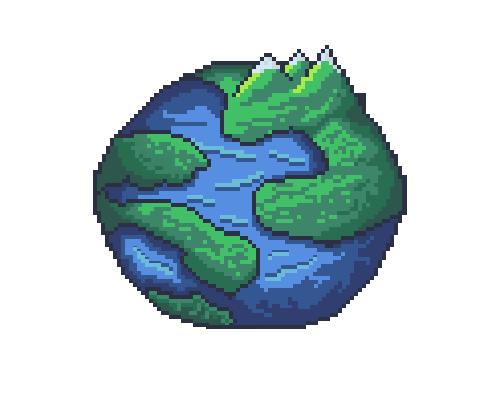
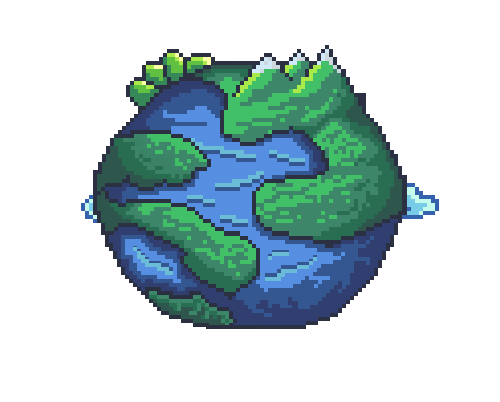
night

Changed region(s): [[0.24, 0.1194, 0.45, 0.2687], [0.81, 0.4478, 0.9, 0.5672], [0.15, 0.4776, 0.21, 0.5672]]

diff --git a/style.css b/style.css
@@ -7,7 +7,8 @@ html, body, #site-wrapper {
     to {opacity: 1;}
 }
 
-#site-wrapper {
+#site-wrapper { 
+    animation-fill-mode: forwards;
     animation-name: mist;
     animation-duration: 7s;
     animation-iteration-count: 1;
@@ -73,7 +74,7 @@ body::after {
     content: url("4-default-frames/moving_0.png");
     width: 60vh;
     animation-name: earth, fadein;
-    animation-duration: 2s, 3s;
+    animation-duration: 1.7s, 3s;
     animation-iteration-count: infinite, 1;
     animation-timing-function: linear, linear;
 }
@@ -254,10 +255,10 @@ body::after {
     content: url("assets/atmsph.png");
     position: absolute;
     opacity: 0.4;
-    top: calc(((100vh - ((89 / 500) * 60vh)) / 2) - ((99.9 / 500) * 60vh));
+    top: calc(((100vh - ((101 / 500) * 60vh)) / 2) - ((105.5 / 500) * 60vh));
     left: calc(((100vw - ((126 / 500) * 60vh)) / 2) - ((81 / 500) * 60vh));
     width: calc((126 / 500) * 60vh);
-    height: calc((89 / 500) * 60vh);
+    height: calc((101 / 500) * 60vh);
     z-index: 41;
     animation: atmsphFade 30s ease-out;
     animation-fill-mode: forwards;
@@ -296,4 +297,104 @@ body::after {
         left: 100%;
     }
 }
+
+@keyframes cloud_hover {
+    0% {transform: translateY(0);}
+  
+    50% {transform: translateY(2px);}
+}
+
+@keyframes logo_right_cloud {
+    from {opacity: 0; left: calc((((100vw - ((212 / 500) * 60vh)) / 2) + ((128 / 500) * 60vh)) - 40vh);}
+    to {opacity: 1; left: calc(((100vw - ((212 / 500) * 60vh)) / 2) + ((128 / 500) * 60vh));}
+}
+
+#right-cloud {
+    position: absolute;
+    width: calc((212 / 500) * 60vh);
+    height: calc((74 / 500) * 60vh);
+    top: calc(((100vh - ((74 / 500) * 60vh)) / 2) - ((67 / 500) * 60vh));
+    opacity: 0;
+    z-index: 51;
+    background-image: url("assets/right-cloud.png");
+    background-repeat: no-repeat;
+    background-size: cover;
+    animation-name: logo_right_cloud, cloud_hover;
+    animation-duration: 14s, 2s;
+    animation-timing-function: linear, cubic-bezier(.36, .07, .19, .97);
+    animation-delay: 5s, 6s;
+    animation-iteration-count: 1, infinite;
+    animation-fill-mode: forwards;
+}
+
+@keyframes logo_left_cloud {
+    from {opacity: 0; left: calc((((100vw - ((203 / 500) * 60vh)) / 2) - ((148.5 / 500) * 60vh)) + 40vh);}
+    to {opacity: 1; left: calc(((100vw - ((203 / 500) * 60vh)) / 2) - ((148.5 / 500) * 60vh));}
+}
+
+#left-cloud {
+    position: absolute;
+    width: calc((203 / 500) * 60vh);
+    height: calc((77 / 500) * 60vh);
+    top: calc(((100vh - ((77 / 500) * 60vh)) / 2) - ((40.5 / 500) * 60vh));
+    opacity: 0;
+    z-index: 51;
+    background-image: url("assets/left-cloud.png");
+    background-repeat: no-repeat;
+    background-size: cover;
+    animation-name: logo_left_cloud, cloud_hover;
+    animation-duration: 14s, 2s;
+    animation-timing-function: linear, cubic-bezier(.36, .07, .19, .97);
+    animation-delay: 5s, 5s;
+    animation-iteration-count: 1, infinite;
+    animation-fill-mode: forwards;
+}
+
+#switch, #circle {
+    height: 20px;
+    transition: all 0.4s cubic-bezier(0.54, 1.6, 0.5, 1);
+    opacity: 0;
+    animation: fadein 4s linear 10s;
+    animation-fill-mode: forwards;
+}
+
+#switch {
+    width: 40px;
+    margin: 0 auto;
+    border: 2px solid #DA8508;
+    border-radius: 27px;
+    background: #DA8508;
+    position: absolute;
+    top: calc(((100vh + (402 / 500) * 60vh) / 2) + 15px);
+    left: calc(50vw - 20px);
+}
+
+#circle {
+    margin-top: 5%;
+    margin-left: 5%;
+    width: 40%;
+    height: 80%;
+    border-radius: 50%;
+    box-shadow: 0 4px 4px rgba(26,53,71,0.25), 0 0 0 1px rgba(26,53,71,0.07);
+    background: #e9e5d5;
+}
+
+.switched {
+    border-color: #1C3958 !important;
+    background: #1C3958 !important;
+}
+
+.switched #circle {
+    margin-left: 55%;
+    background: #e9e5d5;
+}
+
+.night {
+    filter: grayscale(50%) brightness(50%);
+}
+
+/*#site-wrapper:has([id]) {
+    transition: filter 1s ease-in-out;
+}
+
 

diff --git a/index.html b/index.html
@@ -7,15 +7,15 @@
     <title>Everland</title>
     <link href="style.css" rel="stylesheet" type="text/css"/>
     <link rel="stylesheet" type="text/css" media="screen and (max-width: 600px)" href="mobile123.css"/>
-</head>
-
+    <script
+  src="https://code.jquery.com/jquery-3.4.1.js"
+  integrity="sha256-WpOohJOqMqqyKL9FccASB9O0KwACQJpFTUBLTYOVvVU="
+  crossorigin="anonymous"></script>
 <body>
     <div id="site-wrapper">
-        <div id="background-for-clouds"> 
+        <div id="background-for-clouds"></div>
         <img id="logo">
         <img id="clouds" src="assets/clouds.png" alt="clouds on a blue background">
-        </div>
-        <div id="everland-sign"></div>
         <div id="left-leaf-container">
             <img id="left-leaf" class="leaf">
         </div>
@@ -25,7 +25,30 @@
         <img id="shamrock">
         <div id="sun"></div>
         <img id="atmsph">
+        <div id="right-cloud"></div>
+        <div id="left-cloud"></div> 
     </div>
+    <div id="everland-sign"></div>
+    <div id="switch">
+            <div id="circle"></div>
+    </div>
+
+    <script>
+        var item = $("#site-wrapper:has([id])"); 
+        $("#switch").click(function() {
+            item.children().toggleClass("night");
+            $("#switch").toggleClass("switched");
+            /*if ($("#site-wrapper:has([id])").children().hasClass("night")) {
+                $("#site-wrapper:has([id])").children().removeClass("night");
+                $("#switch").removeClass("switched");
+            }
+            else {
+                $("#site-wrapper:has([id])").children().addClass("night");
+                $("#switch").addClass("switched");
+            }
+            */
+        });
+    </script>
 </body>
 
 </html>
